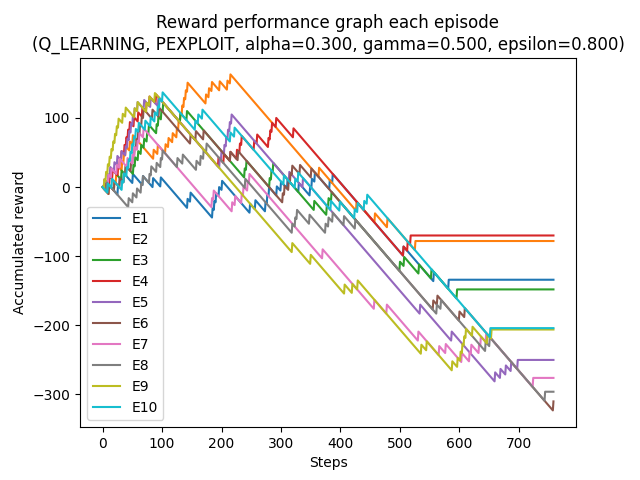
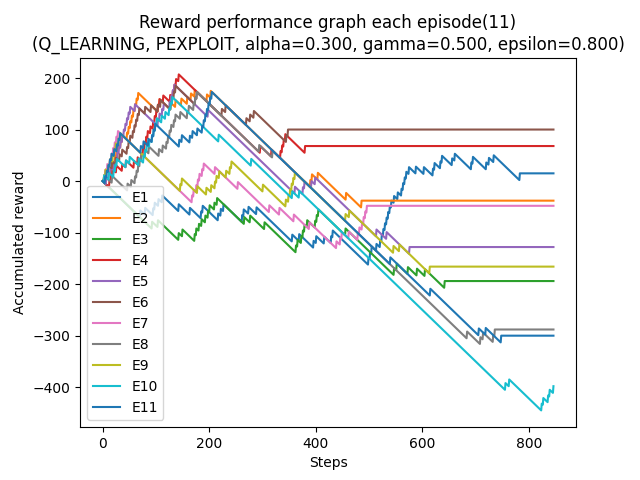
Output ep2 and ep3 of 4th expm

diff --git a/main.py b/main.py
@@ -110,7 +110,7 @@ def plotPerformanceBank(name='performance_bank_plot'):
         plt.plot(bank_plot_steps[:max(max_len)],
                  np.pad(ba, (0, max(max_len) - len(ba)),
                         'constant', constant_values=ba[len(ba) - 1]), label='E%d' % (i + 1))
-    plt.title('Reward performance graph each episode\n' + getTitleString())
+    plt.title('Reward performance graph each episode(%d)\n' % episode + getTitleString())
     plt.xlabel('Steps')
     plt.ylabel('Accumulated reward')
     plt.legend()
@@ -146,7 +146,7 @@ def plotPerformanceDelSteps(name='performance_del_steps_plot'):
                 snapshot_delivery_tracker[j] = snapshot_delivery_tracker[j-1] + incre
             last_pos = i
     plt.plot(snapshot_delivery_plot_steps, snapshot_delivery_tracker)
-    plt.title('Blocks delivered performance graph\n' + getTitleString())
+    plt.title('Blocks delivered performance graph(%d)\n' % episode + getTitleString())
     plt.xlabel('Steps')
     plt.ylabel('Block delivered')
     plt.savefig('Images/%s.png' % name)
@@ -471,7 +471,7 @@ def doSteps(steps, policy, method):
                     episode += 1
                     break
                 watch = getAcceptedInput("Monitor agent?\n(yes/no): ", ['yes', 'no'], [True, False])
-            if fourth_expm and episode == 2:
+            if fourth_expm and episode in [2, 3]:
                 updateWorld(h, w, world, vis_objs['world_vl'], start_x, start_y)
                 fillQValues(h, w, q_table, world, vis_objs['q_table_no_block'], False, start_x, start_y, is_fillQ=True)
                 fillQValues(h, w, q_table, world, vis_objs['q_table_with_block'], True, start_x, start_y, is_fillQ=True)
